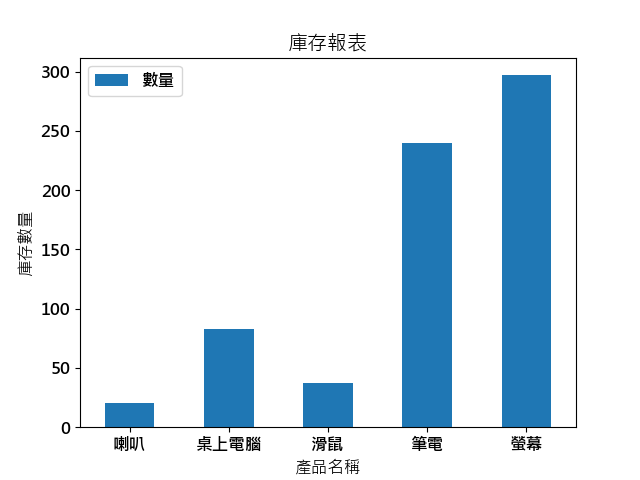
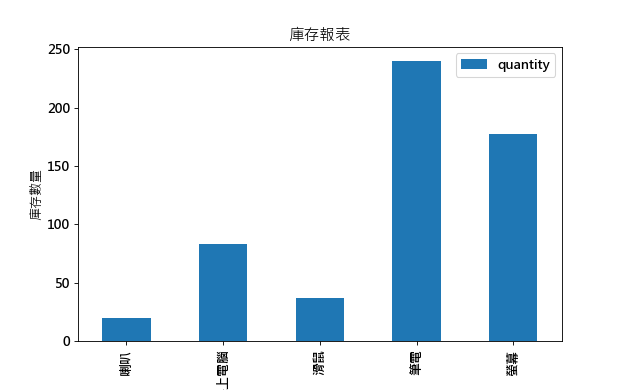
0824

diff --git a/專案2/主畫面 - 0726.py b/專案2/主畫面 - 0726.py
@@ -286,25 +286,25 @@ def show_sell_figue():
 def showfigue():
     db = pymysql.connect( "Localhost"  ,'root' ,'1234' ,'test' ,charset='utf8')
     test = db.cursor() 
-    df=pd.read_sql("""SELECT * FROM momom""",con=db)
+    df=pd.read_sql("""SELECT name ,sum(quantity) as 'quantity' FROM momom GROUP BY name""",con=db)
     print(df)
+    df.plot(x='name',y='quantity',kind='bar')
     db.close()
-    x=df['name']
-    y=df['quantity']
-    print(x)
-    print(y)
     plt.title('庫存報表')#圖表的標題
     plt.xlabel('產品名稱')#x座標標題
     plt.ylabel('庫存數量')#y座標標題
-    plt.bar(x,y,label='a',width=0.3,color='b') #在對齊為邊緣下,width正值靠右,負值往左
+    
     plt.savefig('figure.png')
     print("**************************************************************")
+
     w =Toplevel()
     w.title("庫存系統")
     w.geometry("550x430")    
     fig=PhotoImage(file="figure.png")  
     Label(w,image=fig).pack()
-    w.mainloop()    
+    w.mainloop()
+
+
     
 
 
